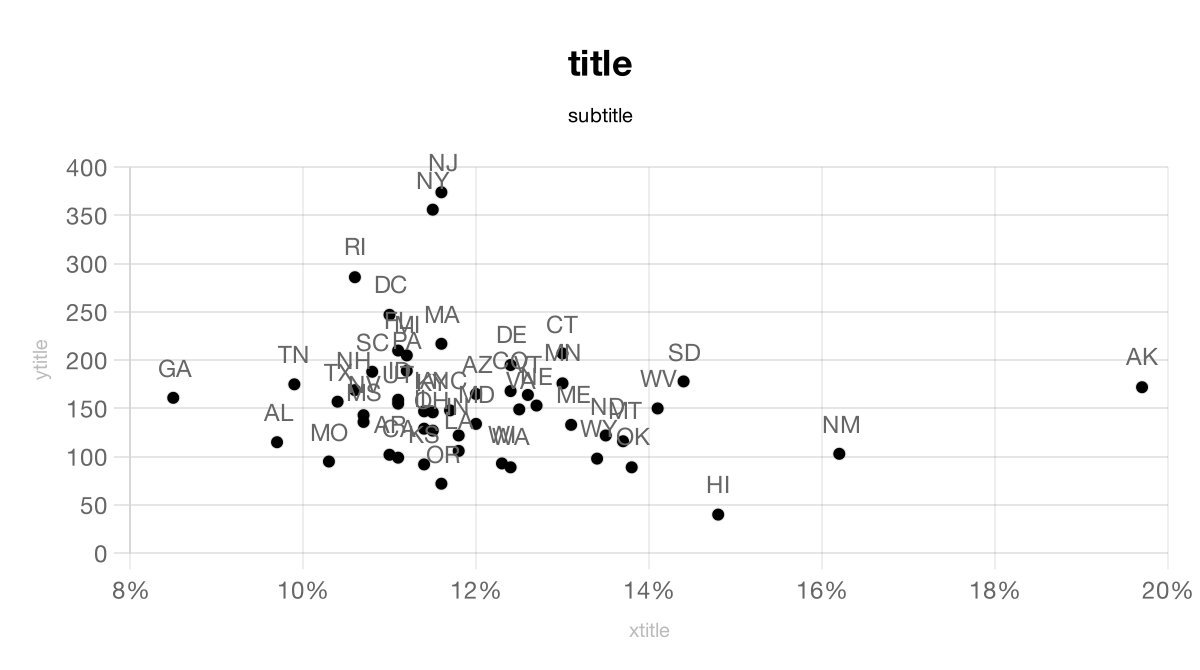
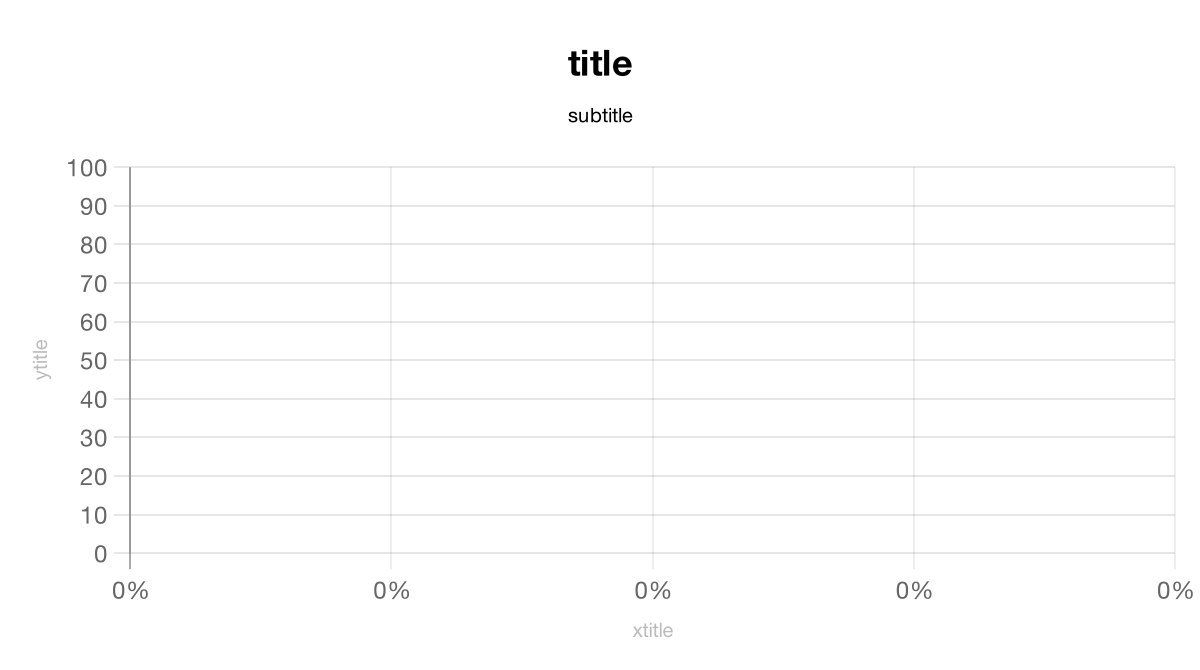
add log scale

diff --git a/src/make-chart.ts b/src/make-chart.ts
@@ -5,6 +5,8 @@ import { makeScatterChart } from './scatter.js'
 import { makeScatterErrorChart } from './scattererror.js'
 import csvjson from 'csvjson'
 
+export type AxisType = 'linear' | 'logarithmic' | 'category' | 'time' | 'timeseries' | 'radialLinear' | undefined
+
 export interface CliOptions {
   infile: string
   outfile: string
@@ -16,7 +18,13 @@ export interface CliOptions {
   labels: string,
   xcolumnkey: string,
   ycolumnkey: string,
-  labelcolumnkey: string
+  labelcolumnkey: string,
+  yaxistype: AxisType,
+  yaxismin: string,
+  yaxismax: string,
+  xaxistype: AxisType,
+  xaxismin: string,
+  xaxismax: string
 }
 
 program
@@ -31,6 +39,12 @@ program
   .option('-xk, --xcolumnkey <string>', 'Key of x column data.')
   .option('-yk, --ycolumnkey <string>', 'Key of x column data.')
   .option('-lk, --labelcolumnkey <string>', 'Key of label column data.')
+  .option('-yat, --yaxistype <string>', 'Y-axis type [linear, logarithmic, ...]')
+  .option('-yami, --yaxismin <number>', 'Minimum of the axis, e.g. 0')
+  .option('-yama, --yaxismax <number>', 'Maximum of the axis, e.g. 100')
+  .option('-xat, --xaxistype <string>', 'X-axis type [linear, logarithmic, ...]')
+  .option('-xami, --xaxismin <number>', 'Minimum of the axis, e.g. 0')
+  .option('-xama, --xaxismax <number>', 'Maximum of the axis, e.g. 100')
 
 program.parse()
 const options: CliOptions = program.opts()
@@ -48,12 +62,13 @@ const delimiter = options.infile.endsWith('.tsv') ? '\t' : ','
 // eslint-disable-next-line @typescript-eslint/no-unsafe-call, @typescript-eslint/no-unsafe-assignment, @typescript-eslint/no-unsafe-member-access
 const dataRows: [] = csvjson.toObject(rawData, { delimiter })
 
+console.log(options)
+
 switch (options.type) {
   case 'scatter':
     console.log('Making Scatter plot.')
     if (!options.xcolumnkey) throw new Error('Must specify --xColumnKey.')
     if (!options.ycolumnkey) throw new Error('Must specify --yColumnKey.')
-    console.log(dataRows)
     await makeScatterChart(options, dataRows)
     break
   case 'scattererror':

diff --git a/src/scatter.ts b/src/scatter.ts
@@ -1,4 +1,4 @@
-import { ChartDataset, ScatterDataPoint } from 'chart.js'
+import { ChartDataset, ScatterDataPoint, Tick } from 'chart.js'
 import { ChartJSNodeCanvas } from 'chartjs-node-canvas'
 import { getChartConfig, saveImage } from './common.js'
 import { CliOptions } from './make-chart.js'
@@ -25,13 +25,29 @@ async function makeChart(
 
   const config = getChartConfig(options, labels)
   config.data.datasets = datasets
-  // if (config.options?.scales?.y && config.options.scales.y.ticks) {
-  //   config.options.scales.y.min = 0
-  //   config.options.scales.y.max = 5000
-  // }
+  if (config.options?.scales?.y && config.options.scales.y.ticks) {
+    config.options.scales.y.type = options.yaxistype ? options.yaxistype : 'linear'
+    config.options.scales.y.min = parseInt(options.yaxismin, 10)
+    config.options.scales.y.max = parseInt(options.yaxismax, 10)
+    config.options.scales.y.ticks = {
+      autoSkip: false
+    }
+    if (options.yaxistype === 'logarithmic') {
+      config.options.scales.y.afterBuildTicks = chart => {
+        chart.ticks = [
+          { value: 0, label: '0' },
+          { value: 10, label: '10' },
+          { value: 100, label: '100' },
+          { value: 1000, label: '1,000' },
+          { value: 10000, label: '10,000' }
+        ]
+      }
+    }
+  }
   if (config.options?.scales?.x && config.options.scales.x.ticks) {
-    config.options.scales.x.min = 0
-    config.options.scales.x.max = 1
+    config.options.scales.x.type = options.xaxistype ? options.xaxistype : 'linear'
+    config.options.scales.x.min = options.xaxismin
+    config.options.scales.x.max = options.xaxismax
     config.options.scales.x.ticks = {
       callback(value: number) {
         return `${Math.round(value * 100)}%`

diff --git a/dist/make-chart.js b/dist/make-chart.js
@@ -15,7 +15,13 @@ program
     .option('-t, --type <string>', 'Type of chart [scatter, scattererror].')
     .option('-xk, --xcolumnkey <string>', 'Key of x column data.')
     .option('-yk, --ycolumnkey <string>', 'Key of x column data.')
-    .option('-lk, --labelcolumnkey <string>', 'Key of label column data.');
+    .option('-lk, --labelcolumnkey <string>', 'Key of label column data.')
+    .option('-yat, --yaxistype <string>', 'Y-axis type [linear, logarithmic, ...]')
+    .option('-yami, --yaxismin <number>', 'Minimum of the axis, e.g. 0')
+    .option('-yama, --yaxismax <number>', 'Maximum of the axis, e.g. 100')
+    .option('-xat, --xaxistype <string>', 'X-axis type [linear, logarithmic, ...]')
+    .option('-xami, --xaxismin <number>', 'Minimum of the axis, e.g. 0')
+    .option('-xama, --xaxismax <number>', 'Maximum of the axis, e.g. 100');
 program.parse();
 const options = program.opts();
 if (!options.infile)
@@ -36,6 +42,7 @@ const rawData = readFileSync(options.infile, { encoding: 'utf8' });
 const delimiter = options.infile.endsWith('.tsv') ? '\t' : ',';
 // eslint-disable-next-line @typescript-eslint/no-unsafe-call, @typescript-eslint/no-unsafe-assignment, @typescript-eslint/no-unsafe-member-access
 const dataRows = csvjson.toObject(rawData, { delimiter });
+console.log(options);
 switch (options.type) {
     case 'scatter':
         console.log('Making Scatter plot.');
@@ -43,7 +50,6 @@ switch (options.type) {
             throw new Error('Must specify --xColumnKey.');
         if (!options.ycolumnkey)
             throw new Error('Must specify --yColumnKey.');
-        console.log(dataRows);
         await makeScatterChart(options, dataRows);
         break;
     case 'scattererror':

diff --git a/dist/scatter.js b/dist/scatter.js
@@ -18,13 +18,29 @@ async function makeChart(data, labels, options) {
         }];
     const config = getChartConfig(options, labels);
     config.data.datasets = datasets;
-    // if (config.options?.scales?.y && config.options.scales.y.ticks) {
-    //   config.options.scales.y.min = 0
-    //   config.options.scales.y.max = 5000
-    // }
+    if (config.options?.scales?.y && config.options.scales.y.ticks) {
+        config.options.scales.y.type = options.yaxistype ? options.yaxistype : 'linear';
+        config.options.scales.y.min = parseInt(options.yaxismin, 10);
+        config.options.scales.y.max = parseInt(options.yaxismax, 10);
+        config.options.scales.y.ticks = {
+            autoSkip: false
+        };
+        if (options.yaxistype === 'logarithmic') {
+            config.options.scales.y.afterBuildTicks = chart => {
+                chart.ticks = [
+                    { value: 0, label: '0' },
+                    { value: 10, label: '10' },
+                    { value: 100, label: '100' },
+                    { value: 1000, label: '1,000' },
+                    { value: 10000, label: '10,000' }
+                ];
+            };
+        }
+    }
     if (config.options?.scales?.x && config.options.scales.x.ticks) {
-        config.options.scales.x.min = 0;
-        config.options.scales.x.max = 1;
+        config.options.scales.x.type = options.xaxistype ? options.xaxistype : 'linear';
+        config.options.scales.x.min = options.xaxismin;
+        config.options.scales.x.max = options.xaxismax;
         config.options.scales.x.ticks = {
             callback(value) {
                 return `${Math.round(value * 100)}%`;
